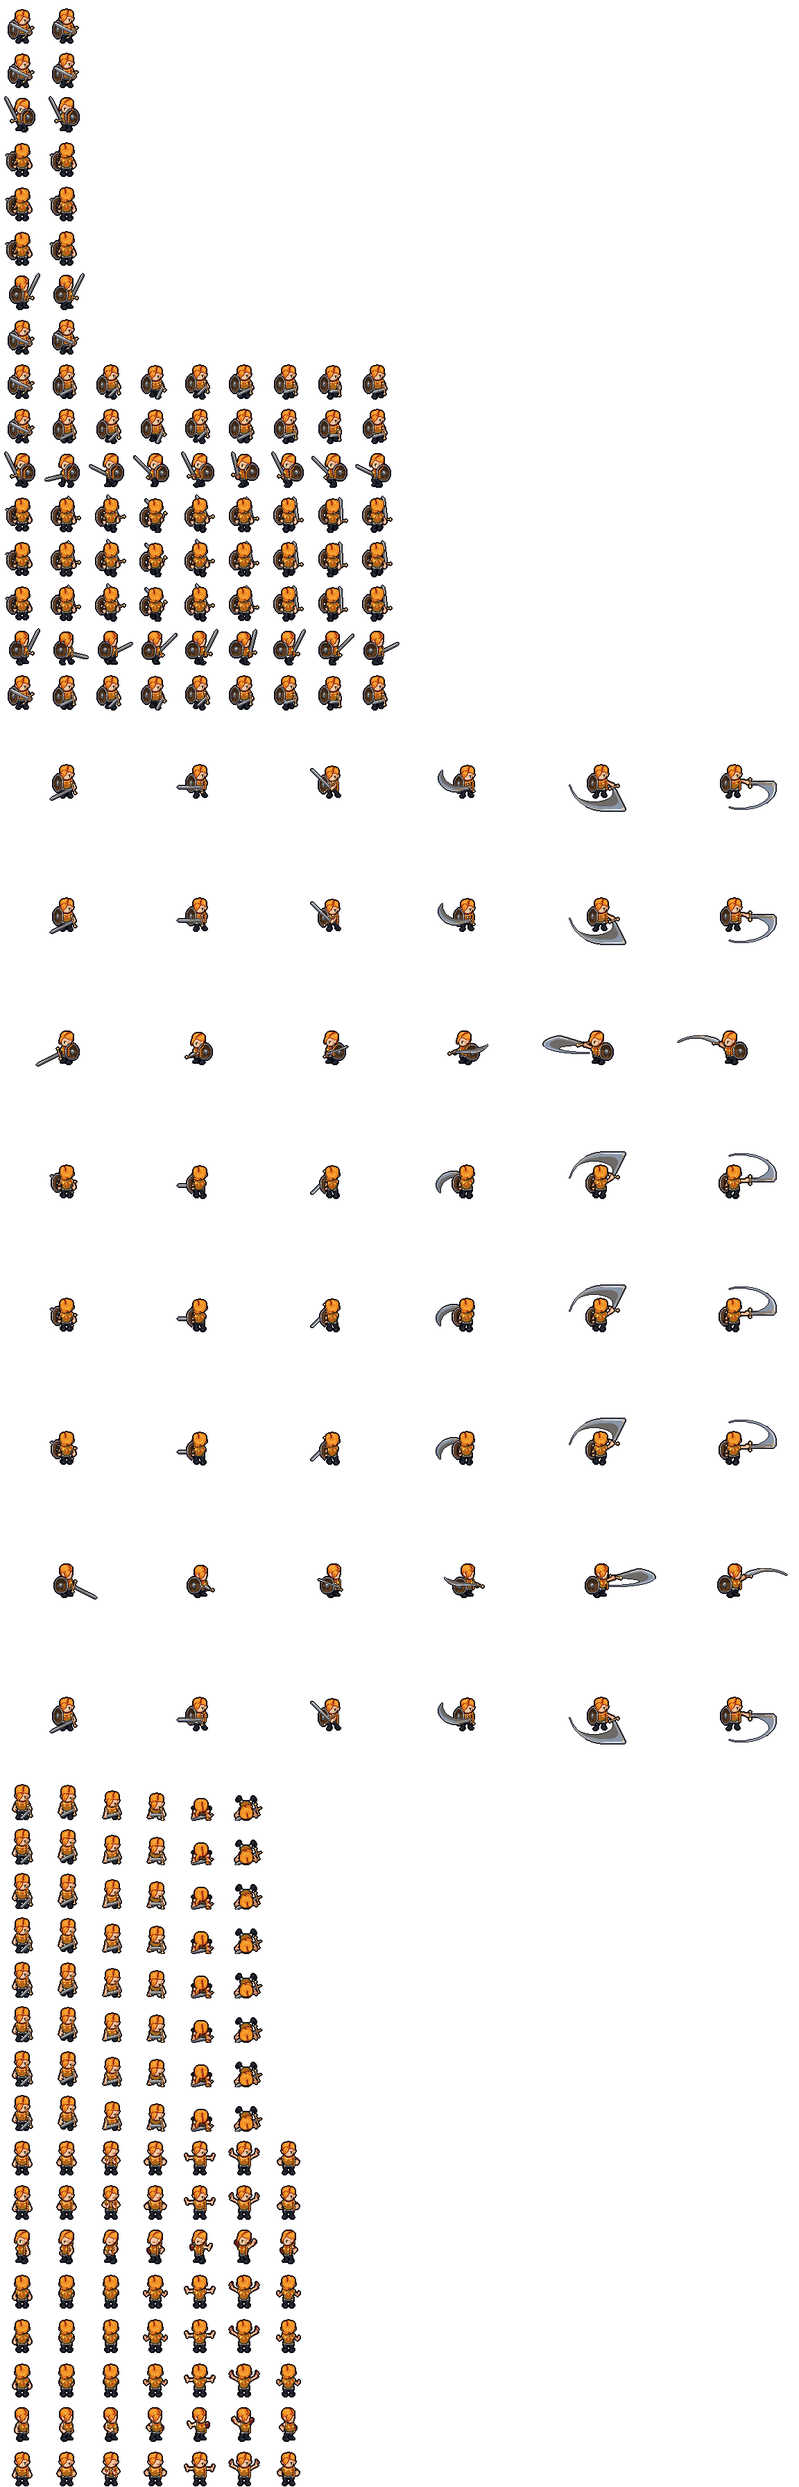
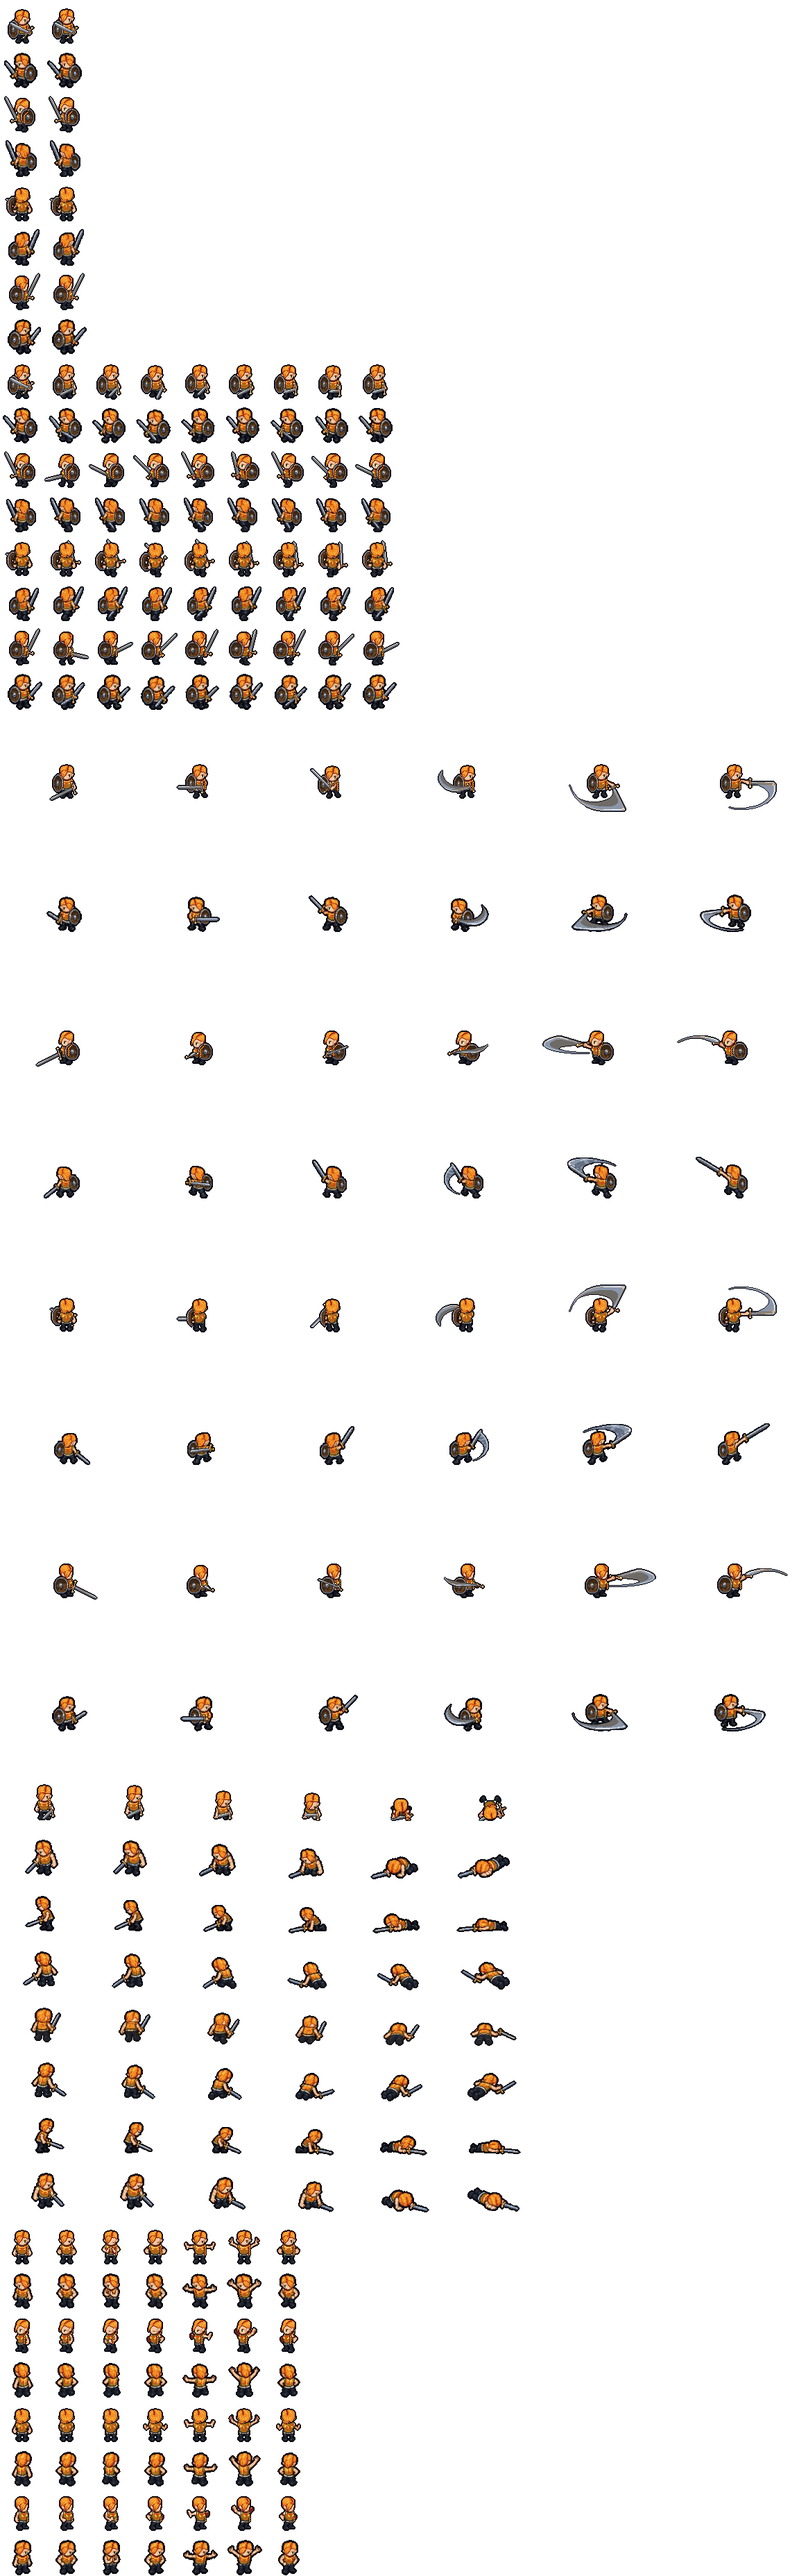
DEEP16: the paladin in all eight facings, his Cast too, from the art desk's ART-63
The third LPC figure through tools/lpc-diag-sheet.py: npcpaladin_p0's SE (SW
mirrored) and NE (NW mirrored) in every row -- Idle, Walk, Attack, Hurt and
Cast, the first extra LPC row through this route, taken by its own anim name
-- and E's (W mirrored) and N's Hurt, from ART-63's six pages
(deep16/_src/npcpaladin/ART-63/). Every LPC drawing stays (S, W, N, E idle,
walk, attack and cast; S hurt). trooper_p0 and npcfighter_p0 unchanged
(pixelate.py p0 reproduces all three byte for byte).

The paladin's spec: `chan` on every page (his dark trousers); the Hurt/Cast
pages scaled by Cast 1, standing straight; NE's idle `stands` 158 (its raised
sword stands over his hair); N's Hurt `against` the N idle; and a new page key,
`tone` (page row, sheet row): the shield-free pages toned against LPC's Cast,
not its idle and walk, which carry the brown shield (by the old way they moved
-11/-15 in a and b). `check` counts the kept rows by the sheet's own anims.

The show: dev/bench16.py patrollady mode=show sheet=npcpaladin_p0 plays idle,
walk, hurt, cast and prone twice (her blows have rows of their own, so attack
is the fallback); trooper mode=show sheet=npcpaladin_p0 plays attack twice
(cast 0: troopers never cast, the same on main). Eyes row
eyes-paladin-eight-1015.

Griz, 10-15: "agreed 1-3" (ART-63 to the fighter's seat, the same script).

diff --git a/js/eyes.js b/js/eyes.js
@@ -263,6 +263,9 @@
     'eyes-fighter-eight-1015': { pri: 2, group: G2, title: 'The fighter in all eight facings: the art desk’s ART-62, the second LPC figure (10-15)', pt: 'the bestiary §26 (tools/lpc-diag-sheet.py; deep16/art/npcfighter_p0; snoot-mode/js/view.js V.FULL8) · eyes',
       url: 'deep16/?show=trooper&sheet=npcfighter_p0&fresh=1',
       look: 'The fighter -- the class fighter’s look in DEEP16 (the Pocket DM’s, deep16/?npc=fighter) and Newland’s and GreyFang’s men in the Snoot. On the test ground the troopers wear his sheet, every row twice. SE and SW are new in every row: three-quarter front, the sword held low on screen-right. NE and NW are new too: from behind-right, the sword raised on screen-right. E, W and N now fall forward (HURT is his death); S keeps LPC’s own fall, on his back. Judge the turns S to SE to E and N to NE to E: one figure, one size (NE’s hair stands a little taller than N’s, as drawn). NE’s ATTACK ends on a straight blade, not LPC’s crescent. N’s last two falls are foreshortened hard from behind: a body on the ground, or a kneel? Every facing one at a time: deep16/?rows=trooper&sheet=npcfighter_p0, up and down turn it (that page’s eyes column names the trooper’s row: mark this one here). In the Snoot his stacks now face NE and NW truly.' },
+    'eyes-paladin-eight-1015': { pri: 2, group: G2, title: 'The paladin in all eight facings, his CAST too: the art desk’s ART-63, the third LPC figure (10-15)', pt: 'the bestiary §26, part 2 (tools/lpc-diag-sheet.py; deep16/art/npcpaladin_p0; snoot-mode/js/view.js V.FULL8) · eyes',
+      url: 'deep16/?show=patrollady&sheet=npcpaladin_p0&fresh=1',
+      look: 'The paladin -- the class paladin’s look in DEEP16 (the Pocket DM’s, deep16/?npc=paladin) and the paladin heroes in the Snoot. On the test ground the patrol ladies wear his sheet: they CAST (his prayer: hands together, arms out, arms up), walk and fall, every row twice. SE and SW are new in every row, CAST too, the sword on screen-right and the shield on screen-left as LPC holds them; NE and NW likewise, from behind-right. E, W and N fall forward now (HURT is his death, the shield dropped as LPC’s own fall drops it); S keeps LPC’s fall. Judge the turns S to SE to E and N to NE to E: one figure, one size, one colour (the shield-free pages were toned against LPC’s CAST). SE’s CAST turns only a little from the front, NE’s only a little from the back. His ATTACK: deep16/?show=trooper&sheet=npcpaladin_p0 (the troopers swing, never cast). In the Snoot his stacks now face NE and NW truly.' },
     'eyes-snoot-ring-1015c': { pri: 1, group: G2, title: 'THE SNOOT: the ring of commands, the camera a step closer, the ground past the edge, the stacks in formation; AVOID, surprise, the road bonus (10-15)', pt: 'the Snoot mode §15 (snoot-mode/js/view.js, ui.js, rules.js) · eyes',
       url: 'snoot-mode/?fresh',
       look: 'NEW BATTLE. The map opens a step closer than the whole map; the dim ground runs on past every edge, the west, south and pirate roads out of it. The wheel (or + and -) steps the zoom about the mouse, a drag or the arrows pan. Each stack stands in its formation -- a line abreast across its facing, a column in file, the death-watch in a ring -- with a chevron on the side it faces. Click Newland\'s road patrol: a ring of buttons round it -- HOLD, CHARGE?, AVOID, LINE, COLUMN, SQUARE and the two turns (the four get only their orders); AVOID holds and slips a hex away from anything that comes. Resolve days: a fight opens with each side\'s die for surprise (SURPRISE! on a 1 or 2: the unready side taken in the flank in the first round); a unit under AVOID that is come at shows THEY SLIP AWAY or CAUGHT with its roll; the Dominion\'s wagons at the inn avoid. Newland\'s horse in column on the road march two hexes further; foot in column no further.' },

diff --git a/deep16/index.html b/deep16/index.html
@@ -77,7 +77,7 @@
 <script src="js/art.js?v=e1ce4cf012"></script>
 <script src="data/cavern.js?v=647c1a184a"></script>
 <script src="data/maps.js?v=971b4fe9e6"></script>
-<script src="data/sprites.js?v=b615c36c2d"></script>
+<script src="data/sprites.js?v=6a3848b91f"></script>
 <script src="js/sprites.js?v=82883d13a8"></script>
 <script src="js/save.js?v=65142ffd7b"></script>
 <script src="data/spells.js?v=c8884fb5b2"></script>
@@ -143,7 +143,7 @@
 <script src="js/embed.js?v=fde3abdebd"></script>
 <script src="js/show.js?v=8e550011f4"></script>
 <script src="js/skyshow.js?v=7151daab7a"></script>
-<script src="../js/eyes.js?v=f8ff9fd449"></script>
+<script src="../js/eyes.js?v=c8109a0913"></script>
 <script src="js/onegallery.js?v=175d0ae3bd"></script>
 <script src="js/main.js?v=39cd8f6139"></script>
 </body>

diff --git a/deep16/data/sprites.js b/deep16/data/sprites.js
@@ -6746,7 +6746,7 @@
 }
 },
 "npcpaladin_p0": {
-"image": "art/npcpaladin_p0.png?v=b9b46c729a",
+"image": "art/npcpaladin_p0.png?v=d4f6b1cd6e",
 "fw": 64,
 "fh": 64,
 "ax": 32,
@@ -6782,21 +6782,42 @@
 },
 "hurt": {
 "y": 2560,
-"fw": 64,
-"fh": 64,
-"ax": 32,
+"fw": 128,
+"fh": 80,
+"ax": 64,
 "ay": 61,
 "frames": 6,
 "fps": 10
 },
 "cast": {
-"y": 3072,
+"y": 3200,
 "fw": 64,
 "fh": 64,
 "ax": 32,
 "ay": 61,
 "frames": 7,
 "fps": 10
+}
+},
+"diag": {
+"by": "tools/lpc-diag-sheet.py",
+"from": "ART-63",
+"drawn": [
+"SE idle/walk/attack",
+"SE hurt/cast",
+"NE idle/walk/attack",
+"NE hurt/cast",
+"E hurt",
+"N hurt"
+],
+"owed": [],
+"lpc_cells": {
+"hurt": [
+64,
+64,
+32,
+61
+]
 }
 }
 },

diff --git a/tools/lpc-diag-sheet.py b/tools/lpc-diag-sheet.py
@@ -63,7 +63,9 @@ NUM = lambda k: [str(i + 1) for i in range(k)]
 # strip the page's width under each row, where its numbers stand), and the rows (the sheet's anim, band x0 y0 x1 y1, its number strip
 # y0 y1, the numbers). `view` is the facing the page draws; `ref` the page's standing frame its scale is read from. `owed` is what the art
 # desk has not sent yet: those facings stay as pixelate.py lays them. A page may also carry sheetrows' own `chan` (the mask's test) and
-# `cuts` (a line cleared where two frames touch), and `stands` (ART-62's attack page, which has no standing frame).
+# `cuts` (a line cleared where two frames touch), `stands` (a standing height read by hand: ART-62's attack page, which has no standing
+# frame), `against` (the LPC view whose idle it is scaled to, S by default) and `tone` (page row, sheet row: the colour compared like
+# with like); a figure, `cells` (its own bigger cells).
 FIGS = {
     'trooper': dict(                                          # ART-61, 10-15: all four pages (deep16/_src/trooper/ART-61/)
         dir='trooper/ART-61',
@@ -134,6 +136,43 @@ FIGS = {
         # (SE's sword held low and out reaches 33 px right of the torso in Idle and Walk 1, past LPC's 64-px cell: those cells grow about
         # the anchor as the hurt cell does, so no row's pixels move against the foot)
         cells={'idle': (72, 64), 'walk': (72, 64)},
+        owed={}),
+    # (Cast: the first extra LPC row through here, taken by the sheet's own anim name -- LPC draws it in all four directions, so SE and NE
+    # are written and E, W and N keep LPC's. The Hurt/Cast pages are scaled by Cast 1, standing straight; their Hurt 1 already leans. `tone`:
+    # the pages with no shield are toned against LPC's Cast, shield-free in every view, not its idle and walk, which carry the brown shield)
+    'npcpaladin': dict(                                       # ART-63, 10-15: six pages (deep16/_src/npcpaladin/ART-63/)
+        dir='npcpaladin/ART-63',
+        pages={
+            'H1P1': dict(file='ART-63_HEAD-1_PAGE-1.png', view='SE', ref=('idle', '1'), chan=14,          # SE: Idle 2, Walk 9, Attack 6
+                         text=[(0, 130, 175, 185), (0, 383, 175, 435), (0, 623, 175, 676),
+                               (175, 257, 1942, 290), (175, 493, 1942, 525), (175, 745, 1942, 780)],
+                         rows=[('idle', (175, 50, 1942, 257), (257, 290), NUM(2)),
+                               ('walk', (175, 292, 1942, 493), (493, 525), NUM(9)),
+                               ('attack', (175, 530, 1942, 745), (745, 780), NUM(6))]),
+            'H1P2': dict(file='ART-63_HEAD-1_PAGE-2.png', view='SE', ref=('cast', '1'), chan=14, tone=('cast', 'cast'),          # SE: Hurt 6, Cast 7
+                         text=[(0, 180, 165, 240), (0, 525, 165, 585), (165, 357, 2054, 386), (165, 680, 2054, 716)],
+                         rows=[('hurt', (165, 90, 2054, 357), (357, 386), NUM(6)),
+                               ('cast', (165, 420, 2054, 680), (680, 716), NUM(7))]),
+            # (stands: NE's idle raises the sword 14 page px over his hair, so the idle is measured from the hair's top, 152 to the feet, plus
+            # the 6 page px of outline the page draws over the hair in every other frame)
+            'H2P1': dict(file='ART-63_HEAD-2_PAGE-1.png', view='NE', ref=('idle', '1'), stands=158, chan=14,          # NE: Idle 2, Walk 9, Attack 6
+                         text=[(0, 157, 150, 210), (0, 425, 150, 475), (0, 710, 150, 757),
+                               (150, 270, 1630, 300), (150, 540, 1630, 570), (150, 845, 1630, 878)],
+                         rows=[('idle', (150, 50, 1630, 270), (270, 300), NUM(2)),
+                               ('walk', (150, 305, 1630, 540), (540, 570), NUM(9)),
+                               ('attack', (150, 575, 1630, 845), (845, 878), NUM(6))]),
+            'H2P2': dict(file='ART-63_HEAD-2_PAGE-2.png', view='NE', ref=('cast', '1'), chan=14, tone=('cast', 'cast'),          # NE: Hurt 6, Cast 7
+                         text=[(0, 145, 200, 207), (0, 472, 200, 527), (200, 369, 1983, 400), (200, 680, 1983, 715)],
+                         rows=[('hurt', (200, 90, 1983, 369), (369, 400), NUM(6)),
+                               ('cast', (200, 410, 1983, 680), (680, 715), NUM(7))]),
+            'H4P1': dict(file='ART-63_HEAD-4_PAGE-1.png', view='E', ref=('hurt', '1'), chan=14, tone=('hurt', 'cast'),           # E: Hurt 6
+                         text=[(0, 318, 175, 382), (175, 495, 2172, 540)],
+                         rows=[('hurt', (175, 200, 2172, 495), (495, 540), NUM(6))]),
+            # (its Hurt label stands low, on the numbers' line: its box stops short of Hurt 1's number)
+            'H5P1': dict(file='ART-63_HEAD-5_PAGE-1.png', view='N', ref=('hurt', '1'), chan=14, against='N', tone=('hurt', 'cast'),   # N: Hurt 6
+                         text=[(0, 560, 160, 602), (160, 560, 2172, 602)],
+                         rows=[('hurt', (160, 200, 2172, 555), (560, 602), NUM(6))]),
+        },
         owed={}),
 }
 
@@ -289,16 +328,22 @@ def mirror(fr, ax):
 TONE_REF = {'SE': ('S', 'E'), 'E': ('E',), 'N': ('N',), 'NE': ('N', 'E')}   # the LPC views a page's colour is toned to: the views beside it
 
 
-def view_moments(old, views):
-    """the Lab moments of the sheet's own idle and walk in the named LPC views"""
+def view_moments(old, views, pg=None):
+    """the Lab moments of the sheet's own idle and walk in the named LPC views -- or, for a page with `tone` (page row, sheet row), the sheet
+    row's first two frames there (the paladin's: his Hurt and Cast are drawn without the shield his idle and walk carry, ART-63)"""
+    if pg and 'tone' in pg:
+        return lab_moments(np.concatenate([fr[fr[..., 3] > 0][:, :3] for v in views for fr in old[pg['tone'][1]][FACINGS.index(v)][:2]]))
     return lab_moments(np.concatenate([fr[fr[..., 3] > 0][:, :3] for v in views for an in ('idle', 'walk')
                                        for fr in old[an][FACINGS.index(v)]]))
 
 
 def page_moments(cuts, pg):
-    """the Lab moments of a page's standing figures: its idle and walk, or (a page of falls) its first two frames"""
+    """the Lab moments of a page's standing figures: its idle and walk, or (a page of falls) its first two frames, or its `tone` row's"""
     rows = [r for r in ('idle', 'walk') if r in cuts]
-    ims = [im for r in rows for _, im, _ in cuts[r]] if rows else [im for _, im, _ in cuts[pg['ref'][0]][:2]]
+    if 'tone' in pg:
+        ims = [im for _, im, _ in cuts[pg['tone'][0]][:2]]
+    else:
+        ims = [im for r in rows for _, im, _ in cuts[r]] if rows else [im for _, im, _ in cuts[pg['ref'][0]][:2]]
     return lab_moments(np.concatenate([np.asarray(im)[np.asarray(im)[..., 3] > 0][:, :3] for im in ims]))
 
 
@@ -318,13 +363,13 @@ def cut_pages(fig, ref_h, cellof, pal, old, tone=True, overlays=None, report=Non
         stands = pg.get('stands', height(np.asarray(rim)))    # (a page with no standing frame says what one would stand, by hand)
         to_h = ref_h if 'against' not in pg else height(old['idle'][FACINGS.index(pg['against'])][0]) - 2
         k = stands / float(to_h)                              # page px a game px (the cut carries the page's own drawn outline: LPC's own)
-        src, ref = page_moments(cuts, pg), view_moments(old, TONE_REF[pg['view']])
+        src, ref = page_moments(cuts, pg), view_moments(old, TONE_REF[pg['view']], pg)
         if report is not None:
             report.append('%s (%s): %s %s stands %d px of page%s -> k %.3f%s; tone L %.1f/%.1f -> %.1f/%.1f, a %+.1f, b %+.1f (to %s)'
                           % (L, pg['view'], ran, rnm, stands, ' (by hand: it stands %d)' % height(np.asarray(rim)) if 'stands' in pg else '',
                              k, ' (against the %s idle, %d)' % (pg['against'], to_h) if 'against' in pg else '',
                              src[0][0], src[1][0], ref[0][0], ref[1][0],
-                             ref[0][1] - src[0][1], ref[0][2] - src[0][2], '+'.join(TONE_REF[pg['view']])))
+                             ref[0][1] - src[0][1], ref[0][2] - src[0][2], '+'.join(TONE_REF[pg['view']]) + ("'s %s, from the page's %s" % (pg['tone'][1], pg['tone'][0]) if 'tone' in pg else '')))
         for an, frs in cuts.items():
             cell = cellof(an)
             floor = frs[0][2][3]                               # the row's ground on the page: frame 1's feet
@@ -505,7 +550,7 @@ def check(fig):
         facings_png(m_own, s_own, an, os.path.join(d, 'facings-%s.png' % an))
     strips(((COLOURS, m_own, s_own), ('house', m_house, s_house), ('untoned', m_raw, s_raw)), d)
     print('  unchanged: every row the pages do not write equals the sheet before the step (%d rows written, %d kept)'
-          % (len(written(fig)), 4 * 8 - len(written(fig))))
+          % (len(written(fig)), len(meta['anims']) * 8 - len(written(fig))))
     print('  wrote', d)
 
 
